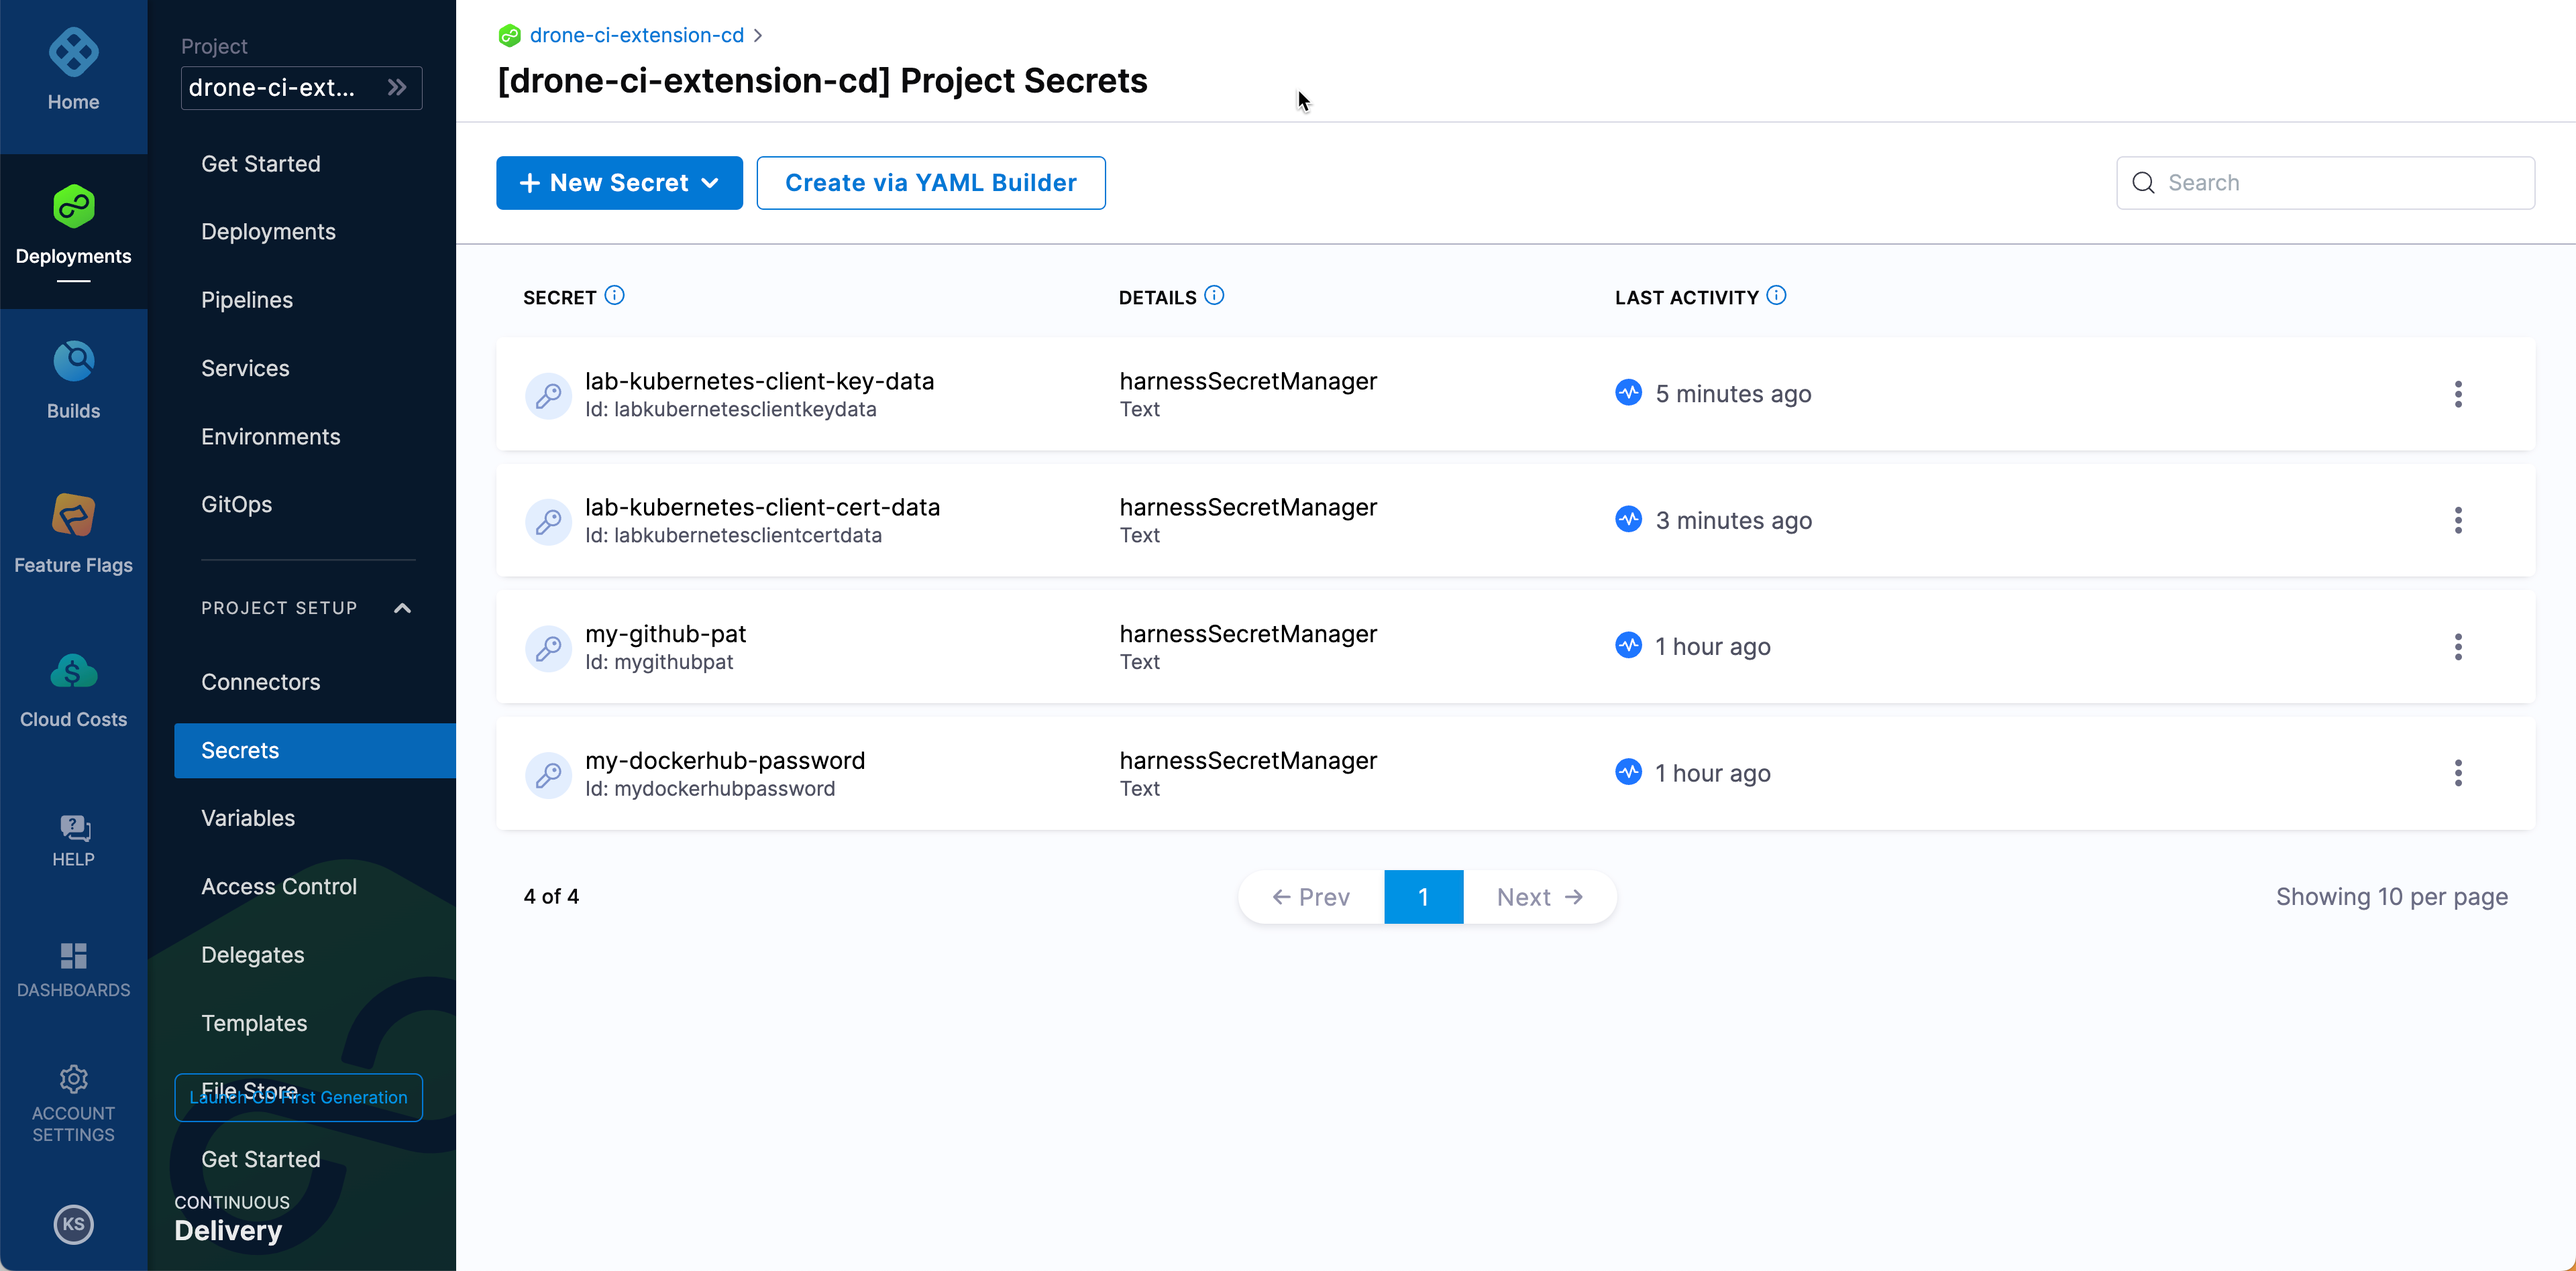
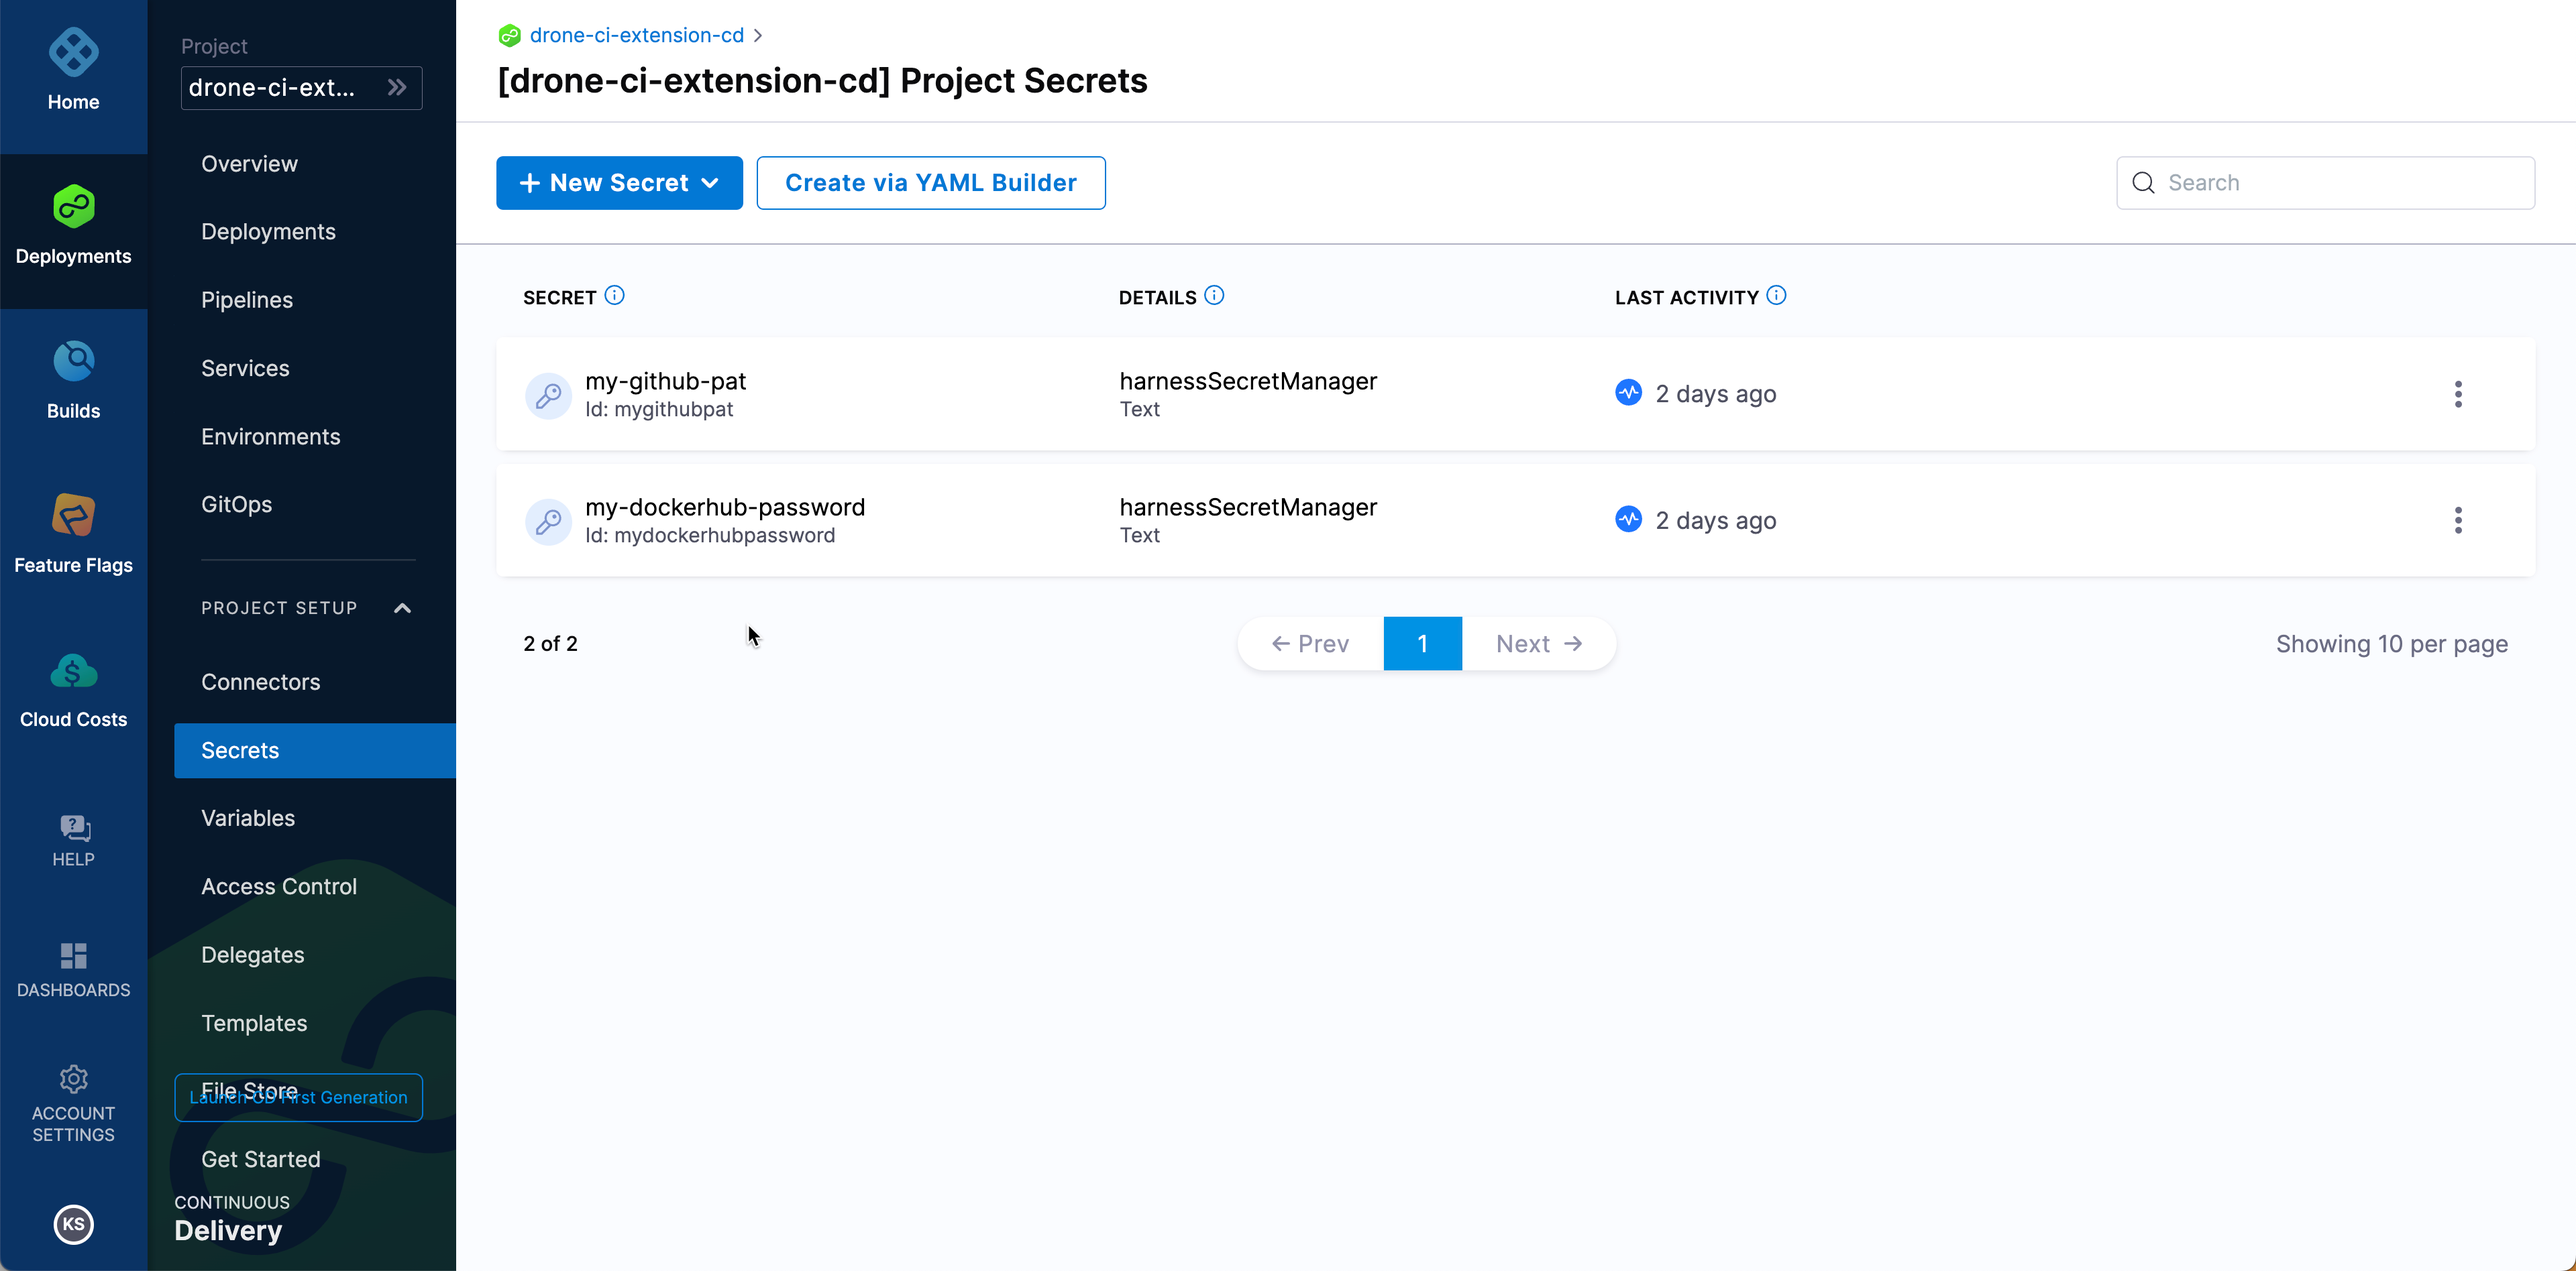
updated with test instructions

diff --git a/04-setup-harness-cd/assignment.md b/04-setup-harness-cd/assignment.md
@@ -30,7 +30,7 @@ tabs:
   url: https://app.harness.io/ng
   new_window: true
 difficulty: basic
-timelimit: 36000
+timelimit: 1800
 ---
 
 👋 Introduction
@@ -148,73 +148,14 @@ Fill the details of the secret as shown and click save to save the secret.
 >
 > Though we can use encryption for usernames as well but for this challenge we will store the username(s) as plain text.
 
-🐙 GitHub PAT Connector
------------------------
+🐙 GitHub PAT
+-------------
 
 As did with previous section click on the ![Add Text Secret](../assets/add_harness_cd_project_text_secret.png) to start adding new secret,
 
 Fill the details of the secret as shown and click __Save__ to save the secret.
 
 [!GitHub PAT](../assets/harness_cd_project_github_pat_secret.png)
-
-🐳 Kubernetes Secret
---------------------
-
-The Kubernetes Connector that we will configure in upcoming section requires  one for each of the following,
-
-- Client Key
-- Client Certificate
-
-### Kubeconfig ###
-
-On the __Terminal__ tab navigate to the tutorial home folder,
-
-```shell
-cd "$TUTORIAL_HOME"
-```
-
-As prompted let us set some environment variables,
-
-```shell
-direnv allow .
-```
-
-From your lab environment get the kubeconfig,
-
-```shell
-cat "$KUBECONFIG" | grep -iA1 server
-```
-
-As you notice the Kube API server is set to `127.0.0.1` which is fine as long as we connect to Kubernetes cluster from within the lab __Terminal__. To make it accessible form outside world from our Harness CD environment we need to update it as shown,
-
-```shell
-sed "s|127.0.0.1|kubernetes-vm.${_SANDBOX_ID}.instruqt.io|" "$KUBECONFIG" | tee "$TUTORIAL_HOME/.kubeconfig.external"
-chmod 0700 "$KUBECONFIG" "$TUTORIAL_HOME/.kubeconfig.external"
-```
-
-### Client Certificate ###
-
-Open the `$TUTORIAL_HOME/.kubeconfig.external` using the editor tab and copy the __value__ of __client-certificate-data__ (should be approximately line #18),
-
-![Copy Client Certificate](../assets/harness_cd_project_k8s_client_cert_secret_value.png)
-
-As did earlier add the __Client Certificate__ by clicking ![Add Text Secret](../assets/add_harness_cd_project_text_secret.png),
-
-Fill the details of the secret as shown and click __Save__ to save the secret.
-
-[!Kubernetes Client Cert](../assets/harness_cd_project_k8s_client_cert_secret.png)
-
-### Client Key ###
-
-On the opened __Editor__ tab copy the __value__ of __client-key-data__ (should be approximately line #19) from the file `$TUTORIAL_HOME/.kubeconfig.external`.
-
-![Copy Client Certificate](../assets/harness_cd_project_k8s_client_key_secret_value.png)
-
-As did earlier add the __Client Key__ by clicking ![Add Text Secret](../assets/add_harness_cd_project_text_secret.png),
-
-Fill the details of the secret as shown and click __Save__ to save the secret.
-
-[!Kubernetes Client Key](../assets/harness_cd_project_k8s_client_key_secret.png)
 
 With this your project's __Secrets__ dashboard should look like,
 
@@ -312,29 +253,15 @@ Give name to the connector say __Lab Kubernetes__ and click __Continue__,
 
 ![Name the Code Repository](../assets/harness_cd_project_k8s_name.png)
 
-On the details screen select __Specify master URL and credentials__ option,
+As you have the Harness Delegate running the Lab Kubernetes Cluster, on the details screen select ![Kubernetes use Harness Delegate](../assets/harness_cd_project_k8s_connector_use_delegate.png) option and click __Continue__,
 
-On the lab __Terminal__ run the following command,
-
-```shell
-kubectl --kubeconfig "$TUTORIAL_HOME/.kubeconfig.external" config view | grep server
-```
-
-Copy the `server:` value and paste it on to Kubernetes Connector field __Master URL__.
-
-Select the option __Client Key Certificate__ for __Authentication__. As we did earlier for __Client Key__ option choose `lab-kubernetes-client-key-data`, for __Client Certificate__ option choose `lab-kubernetes-client-cert-data` and for __Client Key Algorithm__ choose `RSA`. Leave all other fields to defaults and click __Continue__.
-
-![Kubernetes Cluster Details](../assets/harness_cd_project_k8s_details.png)
-
-Click __Continue__ and use the option __Only use Delegates with all of the following tags__ and select the delegate __my-harness-delegate__ that we deployed earlier
+On the next screen, use the option __Only use Delegates with all of the following tags__ and select the delegate __my-harness-delegate__ that we deployed earlier,
 
 ![Use Delegate](../assets/harness_cd_project_k8s_use_delegate.png)
 
 Click __Save and Continue__ to finish the connectivity test. If all our connection parameters are right then the connectivity test should succeed.
 
 ![Kubernetes Connected](../assets/harness_cd_project_k8s_success.png)
-
->__NOTE:__ It might take few seconds for the connection test to finish
 
 Click __Finish__ to complete the Kubernetes Connector creation.
 

diff --git a/05-deploy-ci-cd-pipeline/assignment.md b/05-deploy-ci-cd-pipeline/assignment.md
@@ -30,7 +30,7 @@ tabs:
   url: https://app.harness.io/ng
   new_window: true
 difficulty: basic
-timelimit: 36000
+timelimit: 1800
 ---
 
 👋 Introduction
@@ -170,7 +170,11 @@ Click __Save__ to save the CD pipeline.
 
 [Triggers](https://docs.harness.io/article/c1eskrgngf-trigger-on-a-new-artifact) allow the CD pipeline to started on certain events. In this challenge we will learn how to create a trigger that will start pipeline whenever a new image(__Primary Artifact__) is pushed to DockerHub registry.
 
-Navigate to` __Project__` --> `__Pipelines__` --> `__hello-world` --> Triggers` and click __Add Trigger__ to add a new trigger.
+Navigate to` __Project__` --> `__Pipelines__` --> `__hello-world` --> `Triggers`,
+
+![Triggers](../assets/harness_cd_new_pipeline_add_triggers.png)
+
+Click __Add Trigger__ to add a new trigger.
 
 ![Add New Trigger](../assets/harness_cd_new_trigger.png)
 
@@ -232,7 +236,41 @@ Run the Drone CI pipeline from Drone CI extension with following configuration,
 
 Once the image is pushed to your Docker Hub registry, you should see the CD pipeline getting triggered.
 
->__IMPORTANT:__ The CD Pipeline does polling of the registry every `2 mins` i.e. the CD does not kick in immediately after the image is pushed
+>__IMPORTANT:__ The CD Pipeline does polling of the registry every `2 mins` i.e. the CD does not kick in immediately after the image is pushed.
+
+🔧 Verify Deployment
+====================
+
+Wait for the pipeline to be complete,
+
+![Pipeline Executions](../assets/harness_cd_pipeline_executions.png)
+
+>__NOTE:__ The screen shot above shows multiple executions but in your case you will have only one execution.
+
+Once the pipeline is successful, verify your deployment by running the following command,
+
+```shell
+export NODE_PORT=$(kubectl get --namespace default -o jsonpath="{.spec.ports[0].nodePort}" services hello-world)
+http localhost:$NODE_PORT/hello-world
+```
+
+The command should show the following output,
+
+```text
+HTTP/1.1 200
+Connection: keep-alive
+Content-Type: application/json
+Date: Wed, 19 Oct 2022 05:30:43 GMT
+Keep-Alive: timeout=60
+Transfer-Encoding: chunked
+
+{
+    "content": "Hello, Harness!",
+    "id": 1
+}
+```
+
+Any new update and running CI should trigger a new deployment via Harness CD.
 
 🏁 Finish
 =========
